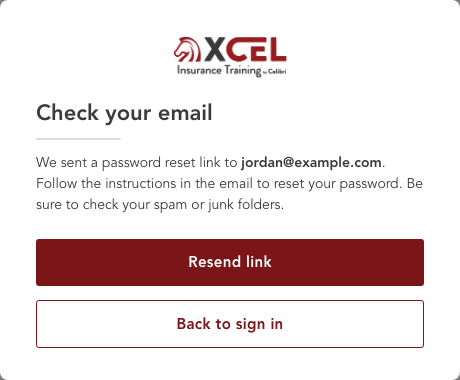
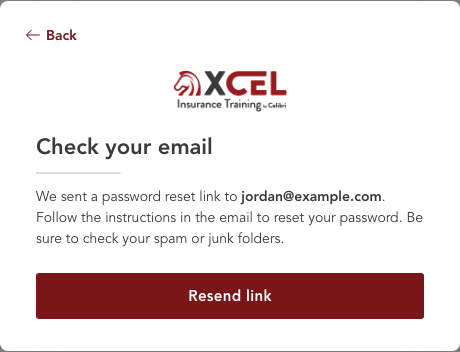
feat(invite-v3): ← Back on Reset your password and Check your email; no help-center line
- Log in to continue drops "Can't log in? Visit our help center" — Reset
  your password's "Can't log in? Contact us" is the way out now.
- Reset your password and Check your email lose Back to sign in for the red
  ← Back in the top left, in the checkout as on the Log In flow. Reset your
  password now reads ← Back, the form, Send reset link, Contact us.
- The capture script clicks ← Back and takes several "|"-separated titles;
  Log in to continue, Reset your password — enter email and Check your
  email recaptured.

diff --git a/src/test/InviteFlowV3Screens.test.tsx b/src/test/InviteFlowV3Screens.test.tsx
@@ -352,7 +352,7 @@ describe('Invite Flow V3 — the email check', () => {
     expect(screen.queryByText('Please enter a valid email address')).not.toBeInTheDocument()
   })
 
-  it('carries an address changed on the email step into Direct Email’s locked log-in field, and offers the help center', async () => {
+  it('carries an address changed on the email step into Direct Email’s locked log-in field, with no help-center line', async () => {
     renderAt(CHECKOUT, 'invite-flow-version:v3,invite-v3-model:b2b,invite-v3-flow-b2b:direct-email,invite-v3-email-account:atlas')
     const ask = screen.getByRole('dialog', { name: 'Enter your email to continue' })
     const given = within(ask).getByLabelText(/^Email\s*\*?$/)
@@ -363,8 +363,8 @@ describe('Invite Flow V3 — the email check', () => {
     const field = within(dialog).getByLabelText(/^Email\s*\*?$/)
     expect(field).toHaveValue('jordan@example.com')
     expect(field).toBeDisabled()
-    expect(dialog).toHaveTextContent('Can’t log in? Visit our help center')
-    expect(within(dialog).getByRole('button', { name: 'Visit our help center' })).toBeInTheDocument()
+    /* "Can't log in? Visit our help center" went on 2026-11-23. */
+    expect(dialog).not.toHaveTextContent('Can’t log in?')
   })
 
   it('shows the one-time code step with the logo, and unlocks Resend after 10 minutes', async () => {
@@ -533,18 +533,17 @@ describe('Invite Flow V3 — the email check', () => {
     const dialog = screen.getByRole('dialog', { name: 'Reset your password' })
     expect(within(dialog).getByAltText('XCEL Insurance Training by Colibri')).toBeInTheDocument()
     expect(dialog).toHaveTextContent('Enter your email and we’ll send you a link to reset your password.')
-    /* Under Send reset link: "Can't log in? Contact us", then Back to sign
-       in — Forgot Email? went on 2026-11-23. */
+    /* ← Back first, then Send reset link and "Can't log in? Contact us" —
+       Forgot Email? and Back to sign in went on 2026-11-23. */
     expect(within(dialog).queryByText('Forgot Email?')).not.toBeInTheDocument()
+    expect(within(dialog).queryByRole('button', { name: 'Back to sign in' })).not.toBeInTheDocument()
     const contact = within(dialog).getByRole('link', { name: /Contact us/ })
     expect(contact).toHaveAttribute('href', 'https://www.xcelsolutions.com/contact-us')
     expect(contact).toHaveAttribute('target', '_blank')
-    const order = [...dialog.querySelectorAll('button, a')].map((e) => e.textContent?.replace(' (opens in a new tab)', ''))
-    expect(order.slice(order.indexOf('Send reset link'), order.indexOf('Back to sign in') + 1)).toEqual([
-      'Send reset link',
-      'Contact us',
-      'Back to sign in',
-    ])
+    const order = [...dialog.querySelectorAll('button:not([aria-label]), a')].map((e) =>
+      e.textContent?.replace(' (opens in a new tab)', ''),
+    )
+    expect(order).toEqual(['Back', 'Send reset link', 'Contact us'])
     const field = within(dialog).getByLabelText(/^Email\s*\*?$/)
     expect(field).toHaveValue('')
     expect(field).toBeEnabled()
@@ -554,11 +553,11 @@ describe('Invite Flow V3 — the email check', () => {
     expect(within(dialog).getByRole('alert')).toHaveTextContent('Please enter a valid email address')
     expect(send).toBeDisabled()
 
-    await userEvent.click(within(dialog).getByRole('button', { name: 'Back to sign in' }))
+    await userEvent.click(within(dialog).getByRole('button', { name: 'Back' }))
     expect(screen.getByRole('heading', { name: 'Log in to continue' })).toBeInTheDocument()
   })
 
-  it('Send reset link says a reset link went to the address; Resend link waits; Back to sign in returns', async () => {
+  it('Send reset link says a reset link went to the address; Resend link waits; ← Back returns', async () => {
     vi.useFakeTimers({ shouldAdvanceTime: true })
     try {
       renderAt(CHECKOUT, `${V3_B2B},invite-v3-email-account:atlas`)
@@ -591,7 +590,8 @@ describe('Invite Flow V3 — the email check', () => {
       expect(within(dialog).getByRole('timer')).toHaveTextContent('You can resend the link in 0:30')
       expect(within(dialog).queryByRole('status')).not.toBeInTheDocument()
 
-      await userEvent.click(within(dialog).getByRole('button', { name: 'Back to sign in' }))
+      expect(within(dialog).queryByRole('button', { name: 'Back to sign in' })).not.toBeInTheDocument()
+      await userEvent.click(within(dialog).getByRole('button', { name: 'Back' }))
       expect(screen.getByRole('heading', { name: 'Log in to continue' })).toBeInTheDocument()
     } finally {
       vi.useRealTimers()
@@ -606,8 +606,8 @@ describe('Invite Flow V3 — the email check', () => {
       await userEvent.click(screen.getByRole('button', { name: 'Continue' }))
       await requestReset('pat@example.com')
 
-      /* Its two buttons keep their jobs: Back to sign in still goes back. */
-      await userEvent.click(screen.getByRole('button', { name: 'Back to sign in' }))
+      /* Its buttons keep their jobs: ← Back still goes back. */
+      await userEvent.click(screen.getByRole('button', { name: 'Back' }))
       expect(screen.getByRole('heading', { name: 'Log in to continue' })).toBeInTheDocument()
       await requestReset('pat@example.com')
       expect(open).not.toHaveBeenCalled()
@@ -625,7 +625,7 @@ describe('Invite Flow V3 — the email check', () => {
       /* This tab stays on Check your email; no reset here, and no banner on
          Log in afterwards (2026-11-19). */
       expect(screen.getByRole('dialog', { name: 'Check your email' })).toBeInTheDocument()
-      await userEvent.click(screen.getByRole('button', { name: 'Back to sign in' }))
+      await userEvent.click(screen.getByRole('button', { name: 'Back' }))
       expect(within(screen.getByRole('dialog', { name: 'Log in to continue' })).queryByRole('status')).not.toBeInTheDocument()
     } finally {
       open.mockRestore()

diff --git a/src/components/e2e/VerifyEmailModalV3.tsx b/src/components/e2e/VerifyEmailModalV3.tsx
@@ -645,9 +645,10 @@ function LoginStep({
         }}
         noValidate
       >
-        {/* On the Log In flow, ← Back in the top left returns to Log in, in
-            place of Back to sign in (2026-11-20, Afsana). */}
-        {onBack ? <V3CardBack onBack={() => setRequesting(false)} /> : null}
+        {/* ← Back in the top left returns to Log in, in place of Back to
+            sign in — the Log In flow's since 2026-11-20, every flow's since
+            2026-11-23 (Afsana). */}
+        <V3CardBack onBack={() => setRequesting(false)} />
         <img src="/brand/xcel-logo.webp" alt="XCEL Insurance Training by Colibri" style={CODE_LOGO} />
         <div style={HEAD}>
           <h2 id="verify-email-title" style={TITLE}>
@@ -679,23 +680,16 @@ function LoginStep({
           </label>
           {badResetEmail ? <EmailInvalid id="reset-request-invalid" /> : null}
         </div>
-        {/* Send reset link, primary; then "Can't log in? Contact us" — and on
-            the checkout, Back to sign in under it. Forgot Email? and its
-            sentence went on 2026-11-23 (Afsana), on both, for Contact us. */}
+        {/* Send reset link, primary; then "Can't log in? Contact us", the
+            card's last line. Forgot Email? and its sentence went on
+            2026-11-23 (Afsana) for Contact us, and Back to sign in for ←
+            Back. */}
         <div style={ACTIONS}>
           <button type="submit" className="cre-e2e-cta" disabled={!valid} aria-disabled={!valid} style={valid ? CTA : CTA_OFF}>
             Send reset link
           </button>
-          {onBack ? null : <ContactUsLine />}
-          {onBack ? null : (
-            <button type="button" style={CTA_SECONDARY} onClick={() => setRequesting(false)}>
-              Back to sign in
-            </button>
-          )}
         </div>
-        {/* On the Log In flow, with no Back to sign in, it is the card's last
-            line (2026-11-23, Afsana). */}
-        {onBack ? <ContactUsLine /> : null}
+        <ContactUsLine />
         {/* The demo fill — the same invisible, labelled corner as the email
             step's. */}
         <button
@@ -717,6 +711,8 @@ function LoginStep({
           if (!(e.target as HTMLElement).closest('button')) openResetLink()
         }}
       >
+        {/* ← Back in place of Back to sign in (2026-11-23, Afsana). */}
+        <V3CardBack onBack={() => setResetSent(false)} />
         <img src="/brand/xcel-logo.webp" alt="XCEL Insurance Training by Colibri" style={CODE_LOGO} />
         <div style={HEAD}>
           <h2 id="verify-email-title" style={TITLE}>
@@ -730,8 +726,8 @@ function LoginStep({
         </div>
         {/* No Email field — the lead already names the address (2026-11-19,
             Afsana). From 2026-11-13 it sat here, grey and locked. */}
-        {/* Resend link, primary, over Back to sign in, secondary (2026-11-05,
-            Afsana). Back is the way out — the modal has no ✕. */}
+        {/* Resend link, primary. ← Back above is the way out — the modal has
+            no ✕ (Back to sign in, under Resend link, until 2026-11-23). */}
         <div style={ACTIONS}>
           <button
             type="button"
@@ -749,13 +745,6 @@ function LoginStep({
               You can resend the link in {formatCountdown(linkWait)}
             </p>
           )}
-          <button
-            type="button"
-            style={CTA_SECONDARY}
-            onClick={() => setResetSent(false)}
-          >
-            Back to sign in
-          </button>
         </div>
         {/* Demo only — the email's link, so a reviewer can find the reset
             page without knowing the whole modal is clickable.
@@ -883,18 +872,9 @@ function LoginStep({
           Log in
         </button>
       </div>
-      {/* The way out for a learner who cannot get in at all (2026-11-13,
-          Afsana). Drawn only — the help center's address is not settled. On
-          the Log In flow it moved to Reset your password as Contact us
-          (2026-11-23, Afsana). */}
-      {onBack ? null : (
-        <p style={{ ...NOTE, textAlign: 'center' }}>
-          Can’t log in?{' '}
-          <button type="button" className="cre-e2e-textlink" style={{ ...TEXT_LINK, color: 'var(--color-xcel-brick)' }}>
-            Visit our help center
-          </button>
-        </p>
-      )}
+      {/* "Can't log in? Visit our help center" was here from 2026-11-13; it
+          went on 2026-11-23 (Afsana) — Reset your password's Contact us is
+          the way out now. */}
     </form>
   )
 }
@@ -1327,8 +1307,7 @@ function EmailInvalid({ id }: { id: string }) {
   )
 }
 
-/* The card's buttons, stacked — on Reset your password, Send reset link,
-   Contact us, Back to sign in. */
+/* The card's buttons, stacked. */
 const ACTIONS: CSSProperties = {
   display: 'flex',
   flexDirection: 'column',
@@ -1351,15 +1330,6 @@ const CTA: CSSProperties = {
   alignSelf: 'stretch',
   width: '100%',
   boxSizing: 'border-box',
-}
-
-/* The secondary — the primary's size and shape, outlined in the brick
-   (2026-11-05, Afsana: Check your email's Back to sign in). */
-const CTA_SECONDARY: CSSProperties = {
-  ...CTA,
-  border: '1px solid var(--color-xcel-brick-600)',
-  background: 'var(--color-fixed-light)',
-  color: 'var(--color-xcel-brick-600)',
 }
 
 const CTA_OFF: CSSProperties = {
